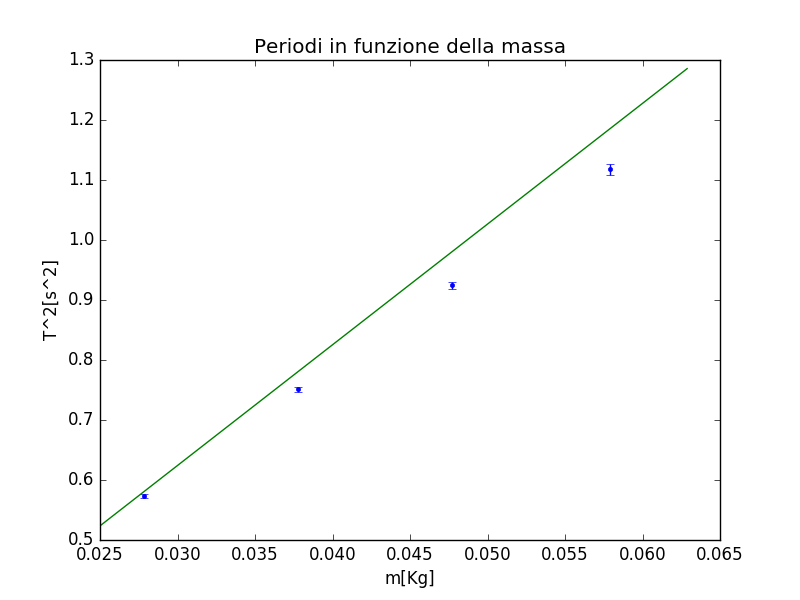
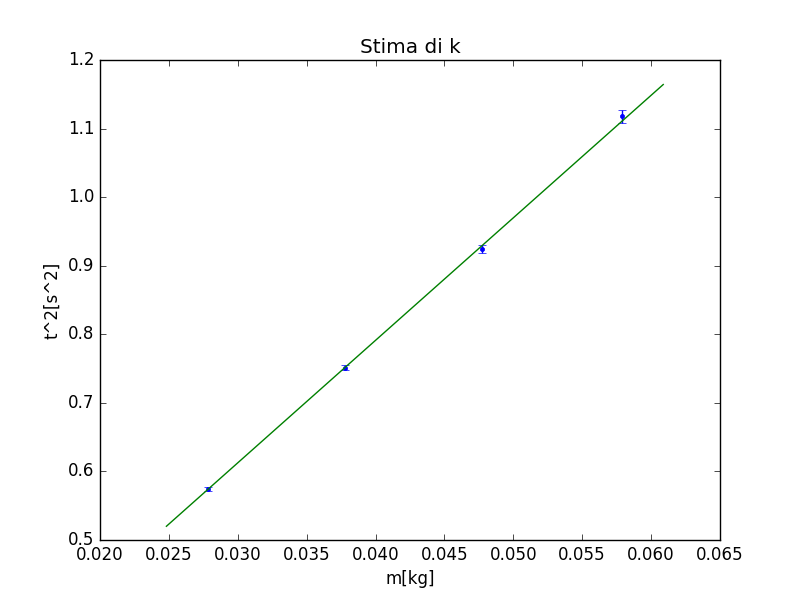
aggiustato un pò l analisi della misura di g

diff --git a/Misurazione_g/analisi.py b/Misurazione_g/analisi.py
@@ -23,39 +23,37 @@ tempi=([[7.53,7.57,7.59,7.58,7.55,7.63,7.63,7.55,7.56],
 		[10.66,10.60,10.57,10.47,10.65,10.65,10.53,10.5,10.69,10.4]])
 #divido i tempi in 10 per trovare 10 periodi
 periodi=([])
-DevPeriodi=([])
+devPeriodi=([])
 for i in range (0,len(tempi)):
 	media=np.mean(tempi[i])/10
 	std=np.std(tempi[i])/10
 	periodi=np.insert(periodi,len(periodi),media)
-	DevPeriodi=np.insert(DevPeriodi,len(DevPeriodi),std)
-def fitPeriodi(m,k):
-	return ((m+massaMolla/3000)*(2*np.pi**2))/k
+	devPeriodi=np.insert(devPeriodi,len(devPeriodi),std)
 
-fitT,varT=curve_fit(fitPeriodi,masse,periodi)
+def Periodo(m,k,k0):
+	T2=4*np.pi**2*(m/k)+k0
+	return T2
 
-print("\n\n",fitT,varT,"\n\n")
+k,sk=curve_fit(Periodo,masse,periodi**2,sigma=devPeriodi)
+print("\n\nk=",k[0],"+-",sk[0][0],"\n\n")
 
-x=np.linspace(0.025,masse[3]+0.005,100)
-y=fitPeriodi(x,fitT[0])
-pylab.errorbar(masse,periodi**2,yerr=DevPeriodi,fmt='.')
+pylab.errorbar(masse,periodi**2,yerr=devPeriodi,fmt='.')
+x=np.linspace(masse[0]-0.003,masse[len(masse)-1]+0.003,100)
+y=Periodo(x,*k)
+pylab.title("Stima di k")
+pylab.xlabel("m[kg]")
+pylab.ylabel("t^2[s^2]")
 pylab.plot(x,y)
-#pylab.xlim(18,52)
-#pylab.ylim(0.5,1.2)
-pylab.title("Periodi in funzione della massa")
-pylab.xlabel("m[Kg]")
-pylab.ylabel("T^2[s^2]")
 pylab.show()
-"""
 
-def Allungamento(m,g):
-	return g*m/fitT
+def fitG(m,a):
+	return m*a
+popt,mammt=curve_fit(fitG,masse,allungamenti,sigma=0.0015)
 
-mediaG,varG=curve_fit(Allungamento,masse,allungamenti)
-pylab.plot(masse,allungamenti)
-x=np.linspace(0.025,0.05,100)
-y=Allungamento(x,*mediaG)
+print(popt,mammt)
+x=np.linspace(masse[0]-0.003,masse[len(masse)-1]+0.003,100)
+y=fitG(x,*popt)
 pylab.plot(x,y)
-print(mediaG,varG)
+pylab.errorbar(masse,allungamenti,yerr=0.0015)
+
 pylab.show()
-"""

diff --git a/Relazione_Penzolo1/analisi.py b/Relazione_Penzolo1/analisi.py
@@ -1,0 +1,21 @@
+import numpy as np
+from scipy.optimize import curve_fit
+from scipy import stats
+import pylab
+g=9.807
+#dati acquisito
+masse=([])
+lunghezza=([])
+tempi=([[],[],[],[],[]])
+#comincia l'elaborazione dati
+periodi=([])
+DevPeriodi=([])
+for i in range (0,len(tempi)):
+	media=np.mean(tempi[i])/10
+	std=np.std(tempi[i])/10
+	periodi=np.insert(periodi,len(periodi),media)
+	DevPeriodi=np.insert(DevPeriodi,len(DevPeriodi),std)
+
+def Periodo(lunghezza):
+	return 4*np.pi*np.sqrt(lunghezza/g)
+
